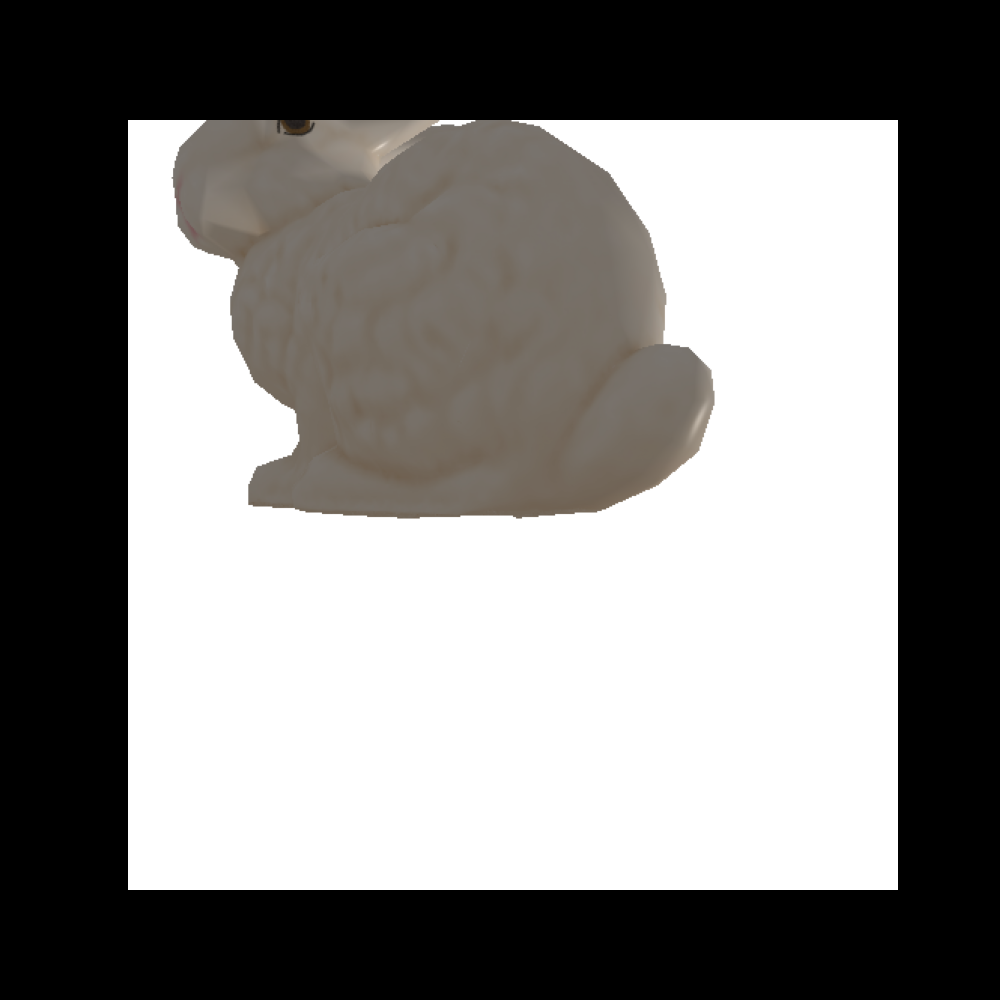
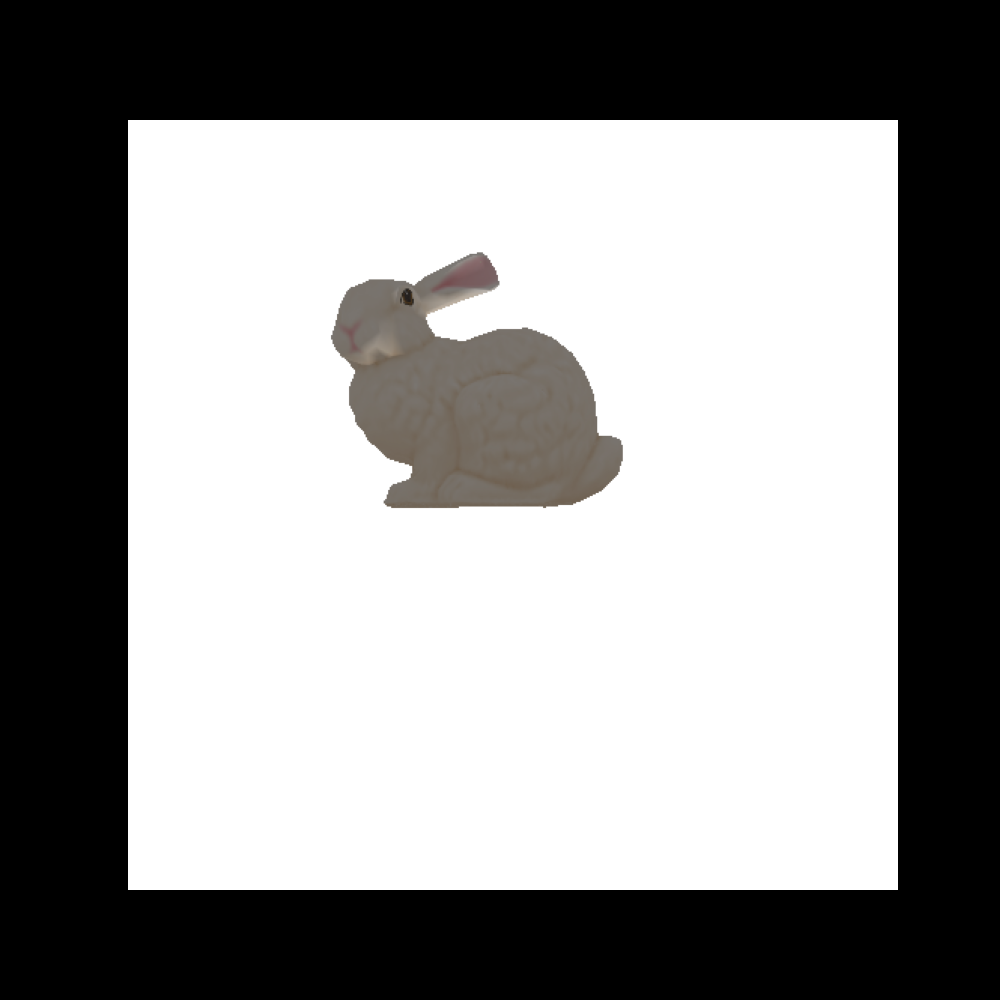
work on project

Changed region(s): [[0.155, 0.093, 0.713, 0.527]]

diff --git a/homeworks/constantin/6-dda1/main.py b/homeworks/constantin/6-dda1/main.py
@@ -16,6 +16,7 @@ from pytorch3d.renderer import (
     MeshRasterizer,
     SoftPhongShader,
     BlendParams,
+    Materials # added 
 )
 import matplotlib.pyplot as plt
 
@@ -39,18 +40,15 @@ mesh = load_objs_as_meshes([os.path.join('./data', 'bunny.obj')], device=device)
 print("Done loading mesh")
 
 # TODO: render the loaded mesh using the already imported classes and functions
-#plt.figure(figsize=(7,7))
-#texture_image=mesh.textures.maps_padded()
-#plt.imshow(texture_image.squeeze().cpu().numpy())
-#plt.axis("off");
 
 # ---------------------------------
 # Initialize a camera.
 # With world coordinates +Y up, +X left and +Z in, the front of the cow is facing the -Z direction. 
 # So we move the camera by 180 in the azimuth direction so it is facing the front of the cow. 
-# MODIFIED for assignment
 #R, T = look_at_view_transform(2.7, 0, 180) 
-R, T = look_at_view_transform(4, 4, 80) 
+# MODIFIED for assignment
+# Move camera by 180 in the azimuth directon so it is facing the side of the bunny
+R, T = look_at_view_transform(8, 0, 45) 
 cameras = FoVPerspectiveCameras(device=device, R=R, T=T)
 
 # Define the settings for rasterization and shading. Here we set the output image to be of size
@@ -67,7 +65,14 @@ raster_settings = RasterizationSettings(
 
 # Place a point light in front of the object. As mentioned above, the front of the cow is facing the 
 # -z direction. 
-lights = PointLights(device=device, location=[[0.0, 0.0, -3.0]])
+lights = PointLights(device=device, location=[[0.0, 0.0, 0.0]])
+
+# Change specular color to green and change material shininess 
+materials = Materials(
+    device=device,
+    specular_color=[[0.0, 1.0, 0.0]],
+    shininess=50.0
+)
 
 # Create a Phong renderer by composing a rasterizer and a shader. The textured Phong shader will 
 # interpolate the texture uv coordinates for each vertex, sample from a texture image and 
@@ -83,8 +88,15 @@ renderer = MeshRenderer(
         lights=lights
     )
 )
-# ---------------------------------
-images = renderer(mesh)
+
+# --------------------------------- 
+# testing,visualize the texture map
+"""plt.figure(figsize=(7,7))
+texture_image=mesh.textures.maps_padded()
+plt.imshow(texture_image.squeeze().cpu().numpy())
+plt.axis("off");"""
+# render the textured mesh
+images = renderer(mesh,lights=lights,materials=materials)
 plt.figure(figsize=(10, 10))
 plt.imshow(images[0, ..., :3].cpu().numpy())
 plt.axis("off");
